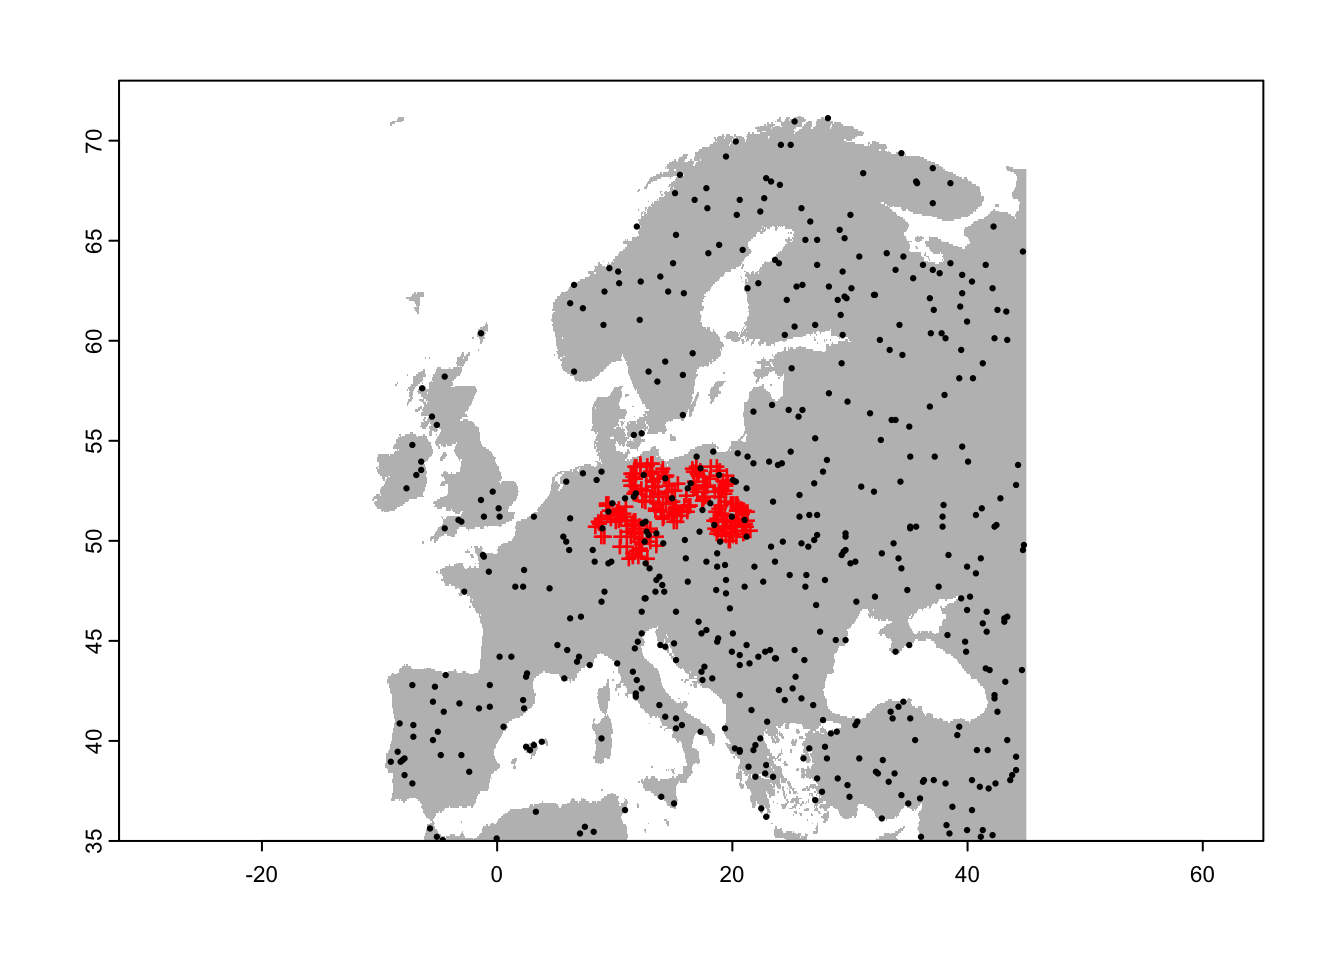
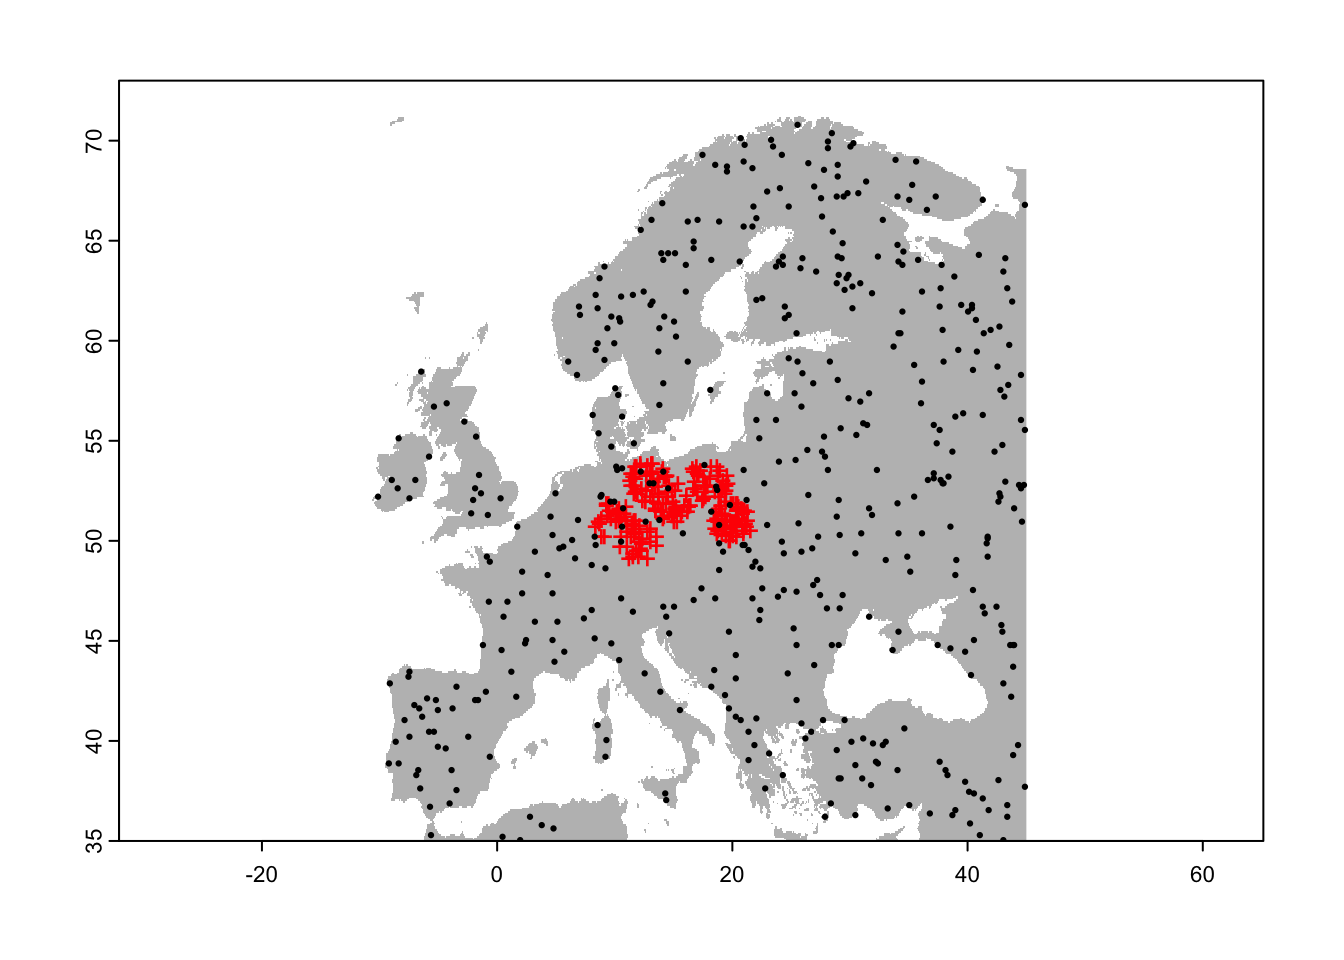
update tasks

diff --git a/b5_pseudoabsence.html b/b5_pseudoabsence.html
@@ -13,7 +13,7 @@
 
 <title>Pseudo-absence and background data</title>
 
-<script src="site_libs/header-attrs-2.13/header-attrs.js"></script>
+<script src="site_libs/header-attrs-2.17/header-attrs.js"></script>
 <script src="site_libs/jquery-3.6.0/jquery-3.6.0.min.js"></script>
 <meta name="viewport" content="width=device-width, initial-scale=1" />
 <link href="site_libs/bootstrap-3.3.5/css/bootstrap.min.css" rel="stylesheet" />
@@ -168,11 +168,15 @@ $(document).ready(function () {
     href = "index.html";
   var menuAnchor = $('a[href="' + href + '"]');
 
-  // mark it active
-  menuAnchor.tab('show');
-
-  // if it's got a parent navbar menu mark it active as well
-  menuAnchor.closest('li.dropdown').addClass('active');
+  // mark the anchor link active (and if it's in a dropdown, also mark that active)
+  var dropdown = menuAnchor.closest('li.dropdown');
+  if (window.bootstrap) { // Bootstrap 4+
+    menuAnchor.addClass('active');
+    dropdown.find('> .dropdown-toggle').addClass('active');
+  } else { // Bootstrap 3
+    menuAnchor.parent().addClass('active');
+    dropdown.addClass('active');
+  }
 
   // Navbar adjustments
   var navHeight = $(".navbar").first().height() + 15;
@@ -201,8 +205,8 @@ $(document).ready(function () {
   border-radius: 4px;
 }
 
-.tabset-dropdown > .nav-tabs > li.active:before {
-  content: "";
+.tabset-dropdown > .nav-tabs > li.active:before, .tabset-dropdown > .nav-tabs.nav-tabs-open:before {
+  content: "\e259";
   font-family: 'Glyphicons Halflings';
   display: inline-block;
   padding: 10px;
@@ -210,16 +214,9 @@ $(document).ready(function () {
 }
 
 .tabset-dropdown > .nav-tabs.nav-tabs-open > li.active:before {
-  content: "&#xe258;";
-  border: none;
-}
-
-.tabset-dropdown > .nav-tabs.nav-tabs-open:before {
-  content: "";
+  content: "\e258";
   font-family: 'Glyphicons Halflings';
-  display: inline-block;
-  padding: 10px;
-  border-right: 1px solid #ddd;
+  border: none;
 }
 
 .tabset-dropdown > .nav-tabs > li.active {
@@ -873,11 +870,11 @@ sp_env$sp &lt;- &#39;Sorex_alpinus&#39;
 xy &lt;- thin(sp_env, lat.col=&#39;decimalLatitude&#39;,long.col=&#39;decimalLongitude&#39;,spec.col=&#39;sp&#39;, thin.par=30,reps=1, write.files=F,locs.thinned.list.return=T)</code></pre>
 <pre><code>## ********************************************** 
 ##  Beginning Spatial Thinning.
-##  Script Started at: Tue Oct 25 12:29:24 2022
+##  Script Started at: Thu Dec 15 09:37:50 2022
 ## lat.long.thin.count
-## 741 
+## 739 
 ##   1 
-## [1] &quot;Maximum number of records after thinning: 741&quot;
+## [1] &quot;Maximum number of records after thinning: 739&quot;
 ## [1] &quot;Number of data.frames with max records: 1&quot;
 ## [1] &quot;No files written for this run.&quot;</code></pre>
 <pre class="r"><code># Keep the coordinates with the most presence records
@@ -941,14 +938,18 @@ points(sp_thinned3[,1:2],pch=19,col=c(&#39;black&#39;,&#39;red&#39;)[as.factor(s
 the pseudo-absence data selection for this species, and run a GLM
 analysis.</p>
 <ul>
-<li>Choose a pseudo-absence/background data strategy for your species.
-Why is this the most appropriate?</li>
+<li>Decide on a pseudo-absence/background data strategy for your species
+(in the simplest case, just follow the strategy used in the example
+workflow in section 4). Prepare your dataset with presences,
+pseudo-absences and the corresponding climate data at those locations
+(following the workflow in section 4)</li>
 <li>Use the data and build a GLM. Remember the different steps of
 checking for multicollinearity, building the full model and simplifying
 it.</li>
 <li>Assess the predictive performance of that model.</li>
-<li>Make predictions to current climate. Where is the species predicted
-to occur on the Globe?</li>
+<li>Make predictions to current climate. Decide whether you want to make
+predictions to the entire globe or to a more restricted geographic area
+(e.g. the continent where your species occurs)?</li>
 </ul>
 </div>
 </div>
